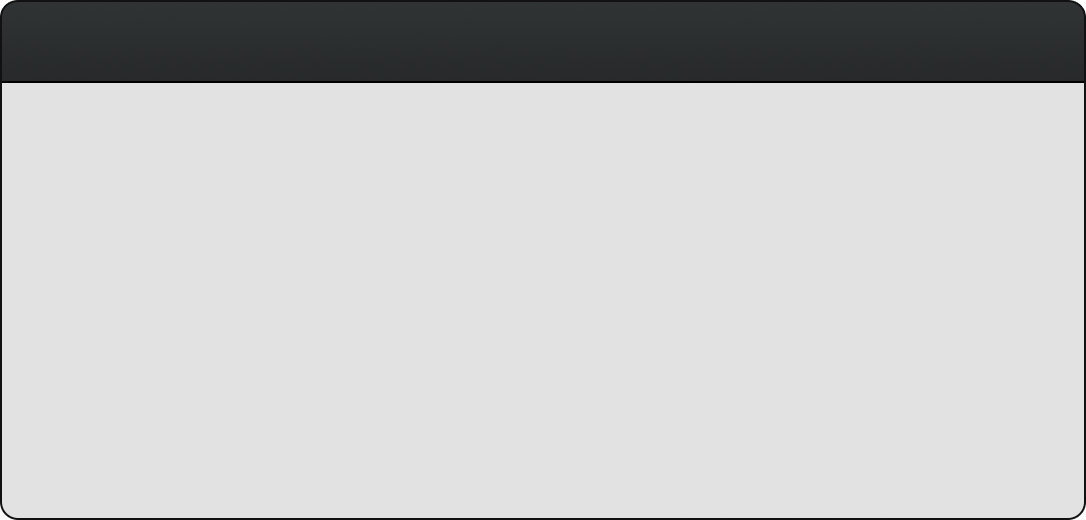
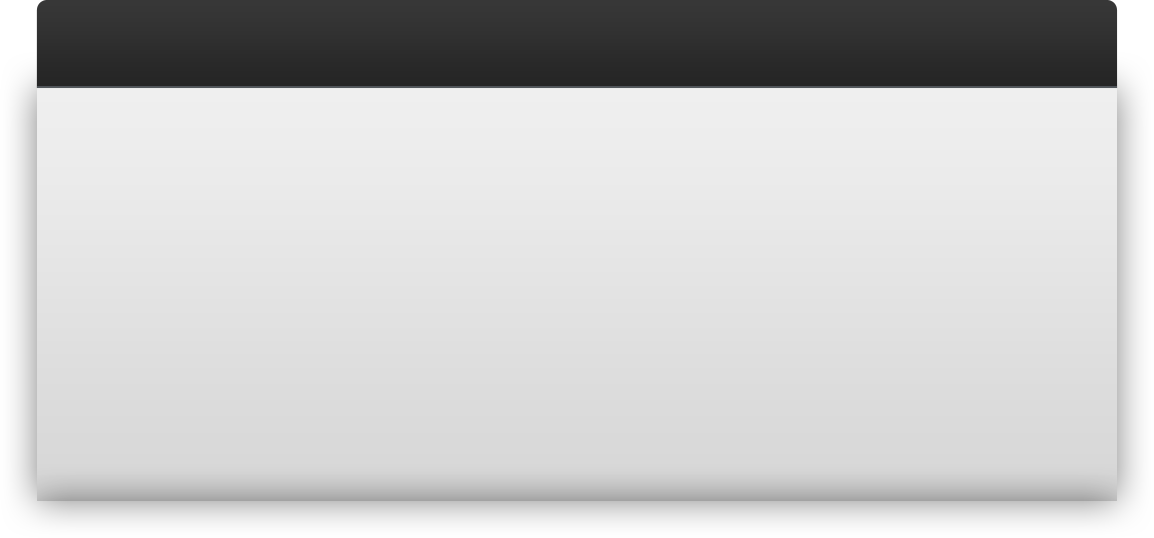
#276 - New design for share dialog

Changed region(s): [[0.0, 0.0, 1.0, 1.0]]

diff --git a/Shelby.tv/Shelby.tv/SPShareController.m b/Shelby.tv/Shelby.tv/SPShareController.m
@@ -158,13 +158,12 @@
 
     self.rollView = nib[0];
     
+    [self.rollView setBackgroundColor:[UIColor colorWithPatternImage:[UIImage imageNamed:@"rollingContainer.png"]]];
+    
     // Reference videoFrame in current thread
     NSManagedObjectContext *context = [self.appDelegate context];
     NSManagedObjectID *objectID = [self.videoPlayer.videoFrame objectID];
     Frame *videoFrame = (Frame *)[context existingObjectWithID:objectID error:nil];
-    
-    // Set Video Title
-    [self.rollView.videoTitleLabel setText:[videoFrame.video title]];
     
     // Load Thumbnail
     [AsynchronousFreeloader loadImageFromLink:videoFrame.video.thumbnailURL

diff --git a/Shelby.tv/Shelby.tv/SPShareRollView.h b/Shelby.tv/Shelby.tv/SPShareRollView.h
@@ -10,7 +10,6 @@
 
 @interface SPShareRollView : UIView
 
-@property (weak, nonatomic) IBOutlet UILabel *videoTitleLabel;
 @property (weak, nonatomic) IBOutlet UIImageView *videoThumbnailView;
 @property (weak, nonatomic) IBOutlet UITextView *rollTextView;
 @property (weak, nonatomic) IBOutlet UIButton *twitterButton;

diff --git a/Shelby.tv/Shelby.tv/SPShareRollView.m b/Shelby.tv/Shelby.tv/SPShareRollView.m
@@ -10,9 +10,4 @@
 
 @implementation SPShareRollView
 
-- (void)awakeFromNib
-{
-    [self.videoTitleLabel setFont:[UIFont fontWithName:@"Ubuntu-Bold" size:_videoTitleLabel.font.pointSize]];
-}
-
 @end
